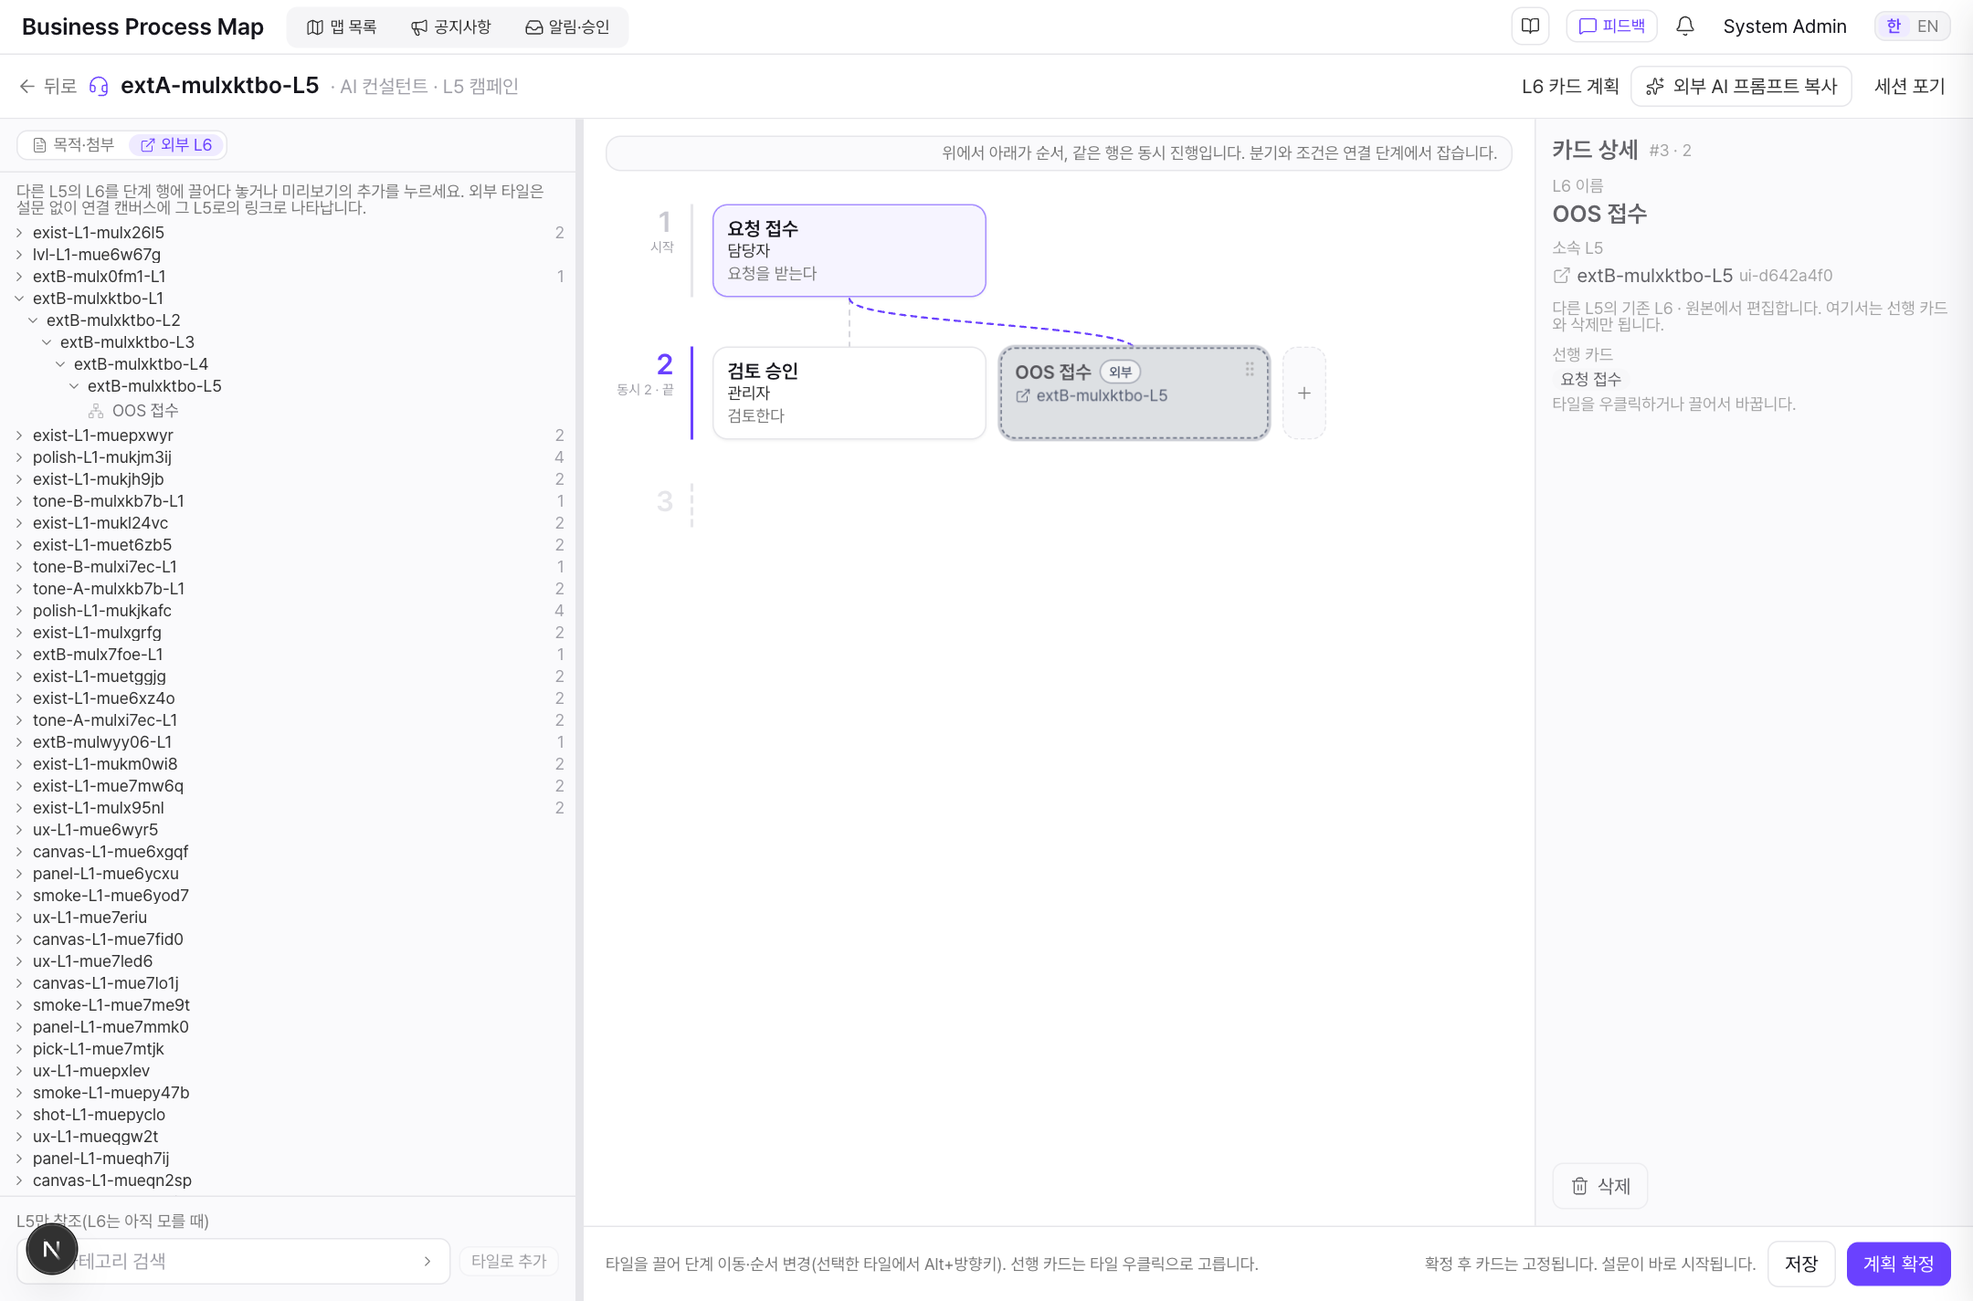
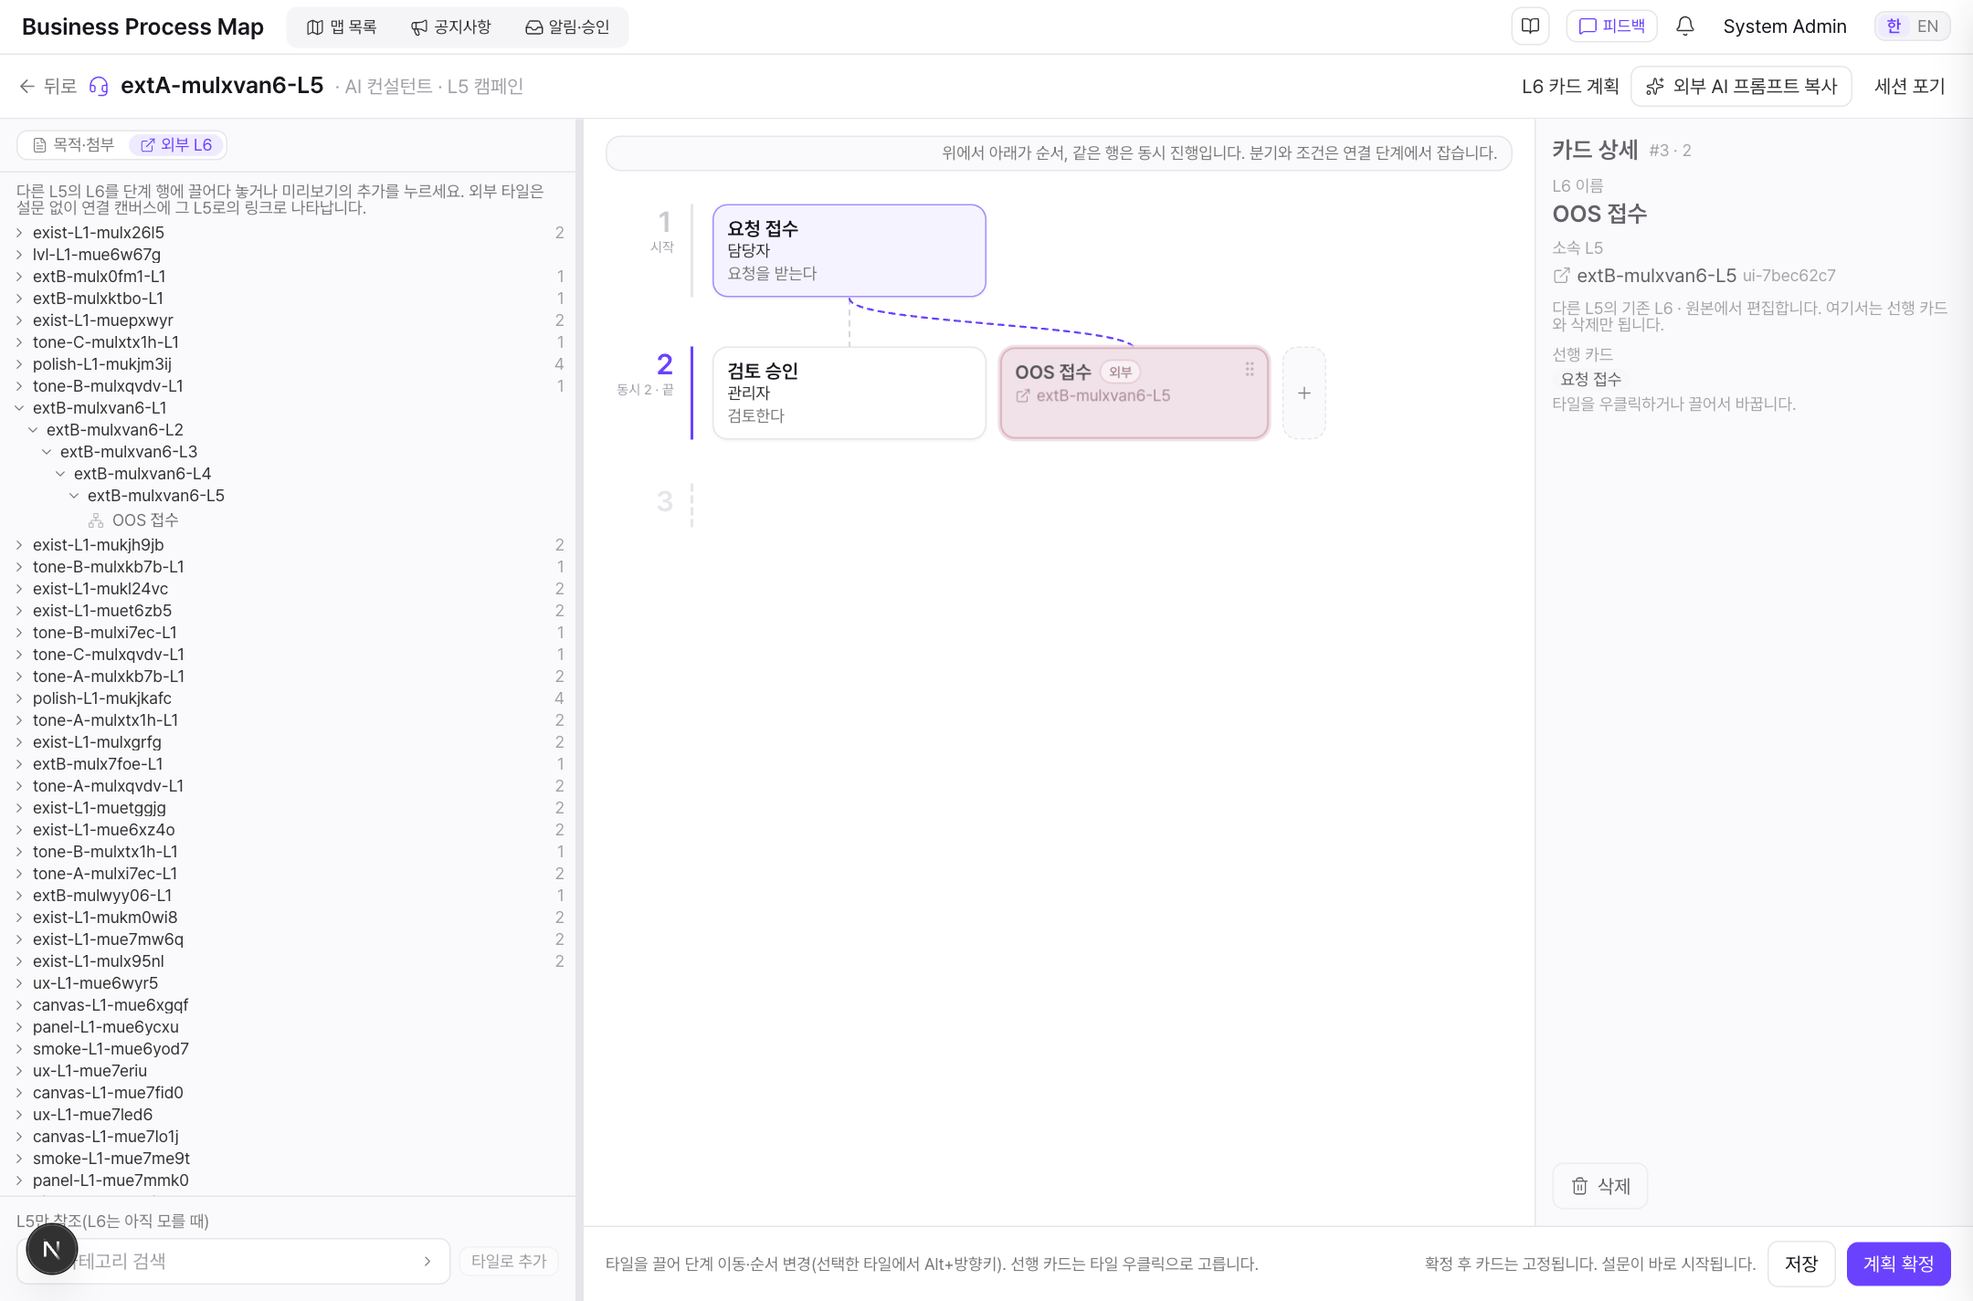
style(fw-consult): color external tiles per origin L5 with the canvas palette instead of a dashed navy — 외부 타일을 남색 점선 대신 소속 L5별 캔버스 팔레트 색으로
The slate dashed tile read as disabled. External tiles now take a pastel node look keyed by the origin L5 code (FNV-1a over the 8-tone COLOR_PRESETS), shared by the tile, its chip and the relations-canvas node, so two different L5s get two different colors and the selected/linked states only deepen the same hue.

Claude-Session: https://claude.ai/code/session_01NtYUxNw4KQ3Z1z3Bqrv8Dn

diff --git a/frontend/src/components/framework-interview/plan-editor.tsx b/frontend/src/components/framework-interview/plan-editor.tsx
@@ -13,7 +13,7 @@
 // 외부 참조 타일(2026-09-29): 다른 L5의 L6(체계 피커에서 드래그/피크 추가) 또는 L5만 아는 플레이스홀더. 점선 타일에 소속 L5 배지,
 // 설문·드로잉 없이 선행 관계와 연결 캔버스에만 참여한다. 추가 경로는 page가 넘기는 addExternalRef(피크·L5 지정)와 이 목록으로의 드롭.
 
-import { useEffect, useLayoutEffect, useRef, useState } from "react";
+import { type CSSProperties, useEffect, useLayoutEffect, useRef, useState } from "react";
 import { ExternalLink, GripVertical, Link2, Loader2, Plus, Trash2, Undo2 } from "lucide-react";
 
 import { getCategoryChain, getDirectory, type CategoryNode, type FwCardMode, type FwInterviewSession, type FwPlanCard } from "@/lib/api";
@@ -27,6 +27,7 @@ import {
 import { useFlipOrder } from "@/lib/use-flip-order";
 import { ContextMenu, type ContextMenuItem } from "@/components/context-menu";
 import { CardModeChip } from "@/components/framework-interview/card-mode-chip";
+import { getExternalL5ColorByCode } from "@/lib/canvas";
 import { SearchSelect } from "@/components/search-select";
 
 const FIELD = "w-full rounded-sm border border-hairline bg-surface px-2 py-1 text-caption text-ink outline-none focus:border-accent";
@@ -44,16 +45,13 @@ const TILE_LINKED = "border-accent/40 bg-accent-tint/40";
 const TILE_KEPT = "border-dashed border-hairline bg-surface-alt/60 opacity-70";
 // 삭제 예정 타일 — 붉은 테두리·옅은 붉은 바탕, 제목 취소선. 복구 버튼이 그립 자리에 온다
 const TILE_REMOVED = "border-error/60 bg-error/5";
-// 외부 참조 타일 — 업무 체계(L5 하늘) 남색 톤의 점선 타일. 기존 유지(회색 점선)·일반(흰색)과 한눈에 갈린다(사용자 요청 2026-09-29)
-const EXTERNAL_TONE = "var(--color-canvas-l5-sky)";
-// 선택·호버 무리 상태에서도 남색을 유지한다 — 액센트 틴트로 바뀌면 일반 타일과 구분이 사라진다(사용자 지적 2026-09-29)
+// 외부 참조 타일 — 소속 L5별 색(연계 캔버스 외부 L6 팔레트 `getExternalL5ColorByCode`)의 파스텔 노드 룩. 점선·회색은 비활성처럼
+// 읽혀 폐기(사용자 피드백 2026-09-29). 색은 타일 `--ext-tone`로 넣고, 선택·호버 무리 상태에서도 같은 색 안에서만 진해진다
 const TILE_EXTERNAL =
-  "border-dashed border-[color-mix(in_srgb,var(--color-canvas-l5-sky)_55%,white)] bg-[color-mix(in_srgb,var(--color-canvas-l5-sky)_8%,white)] " +
-  "hover:bg-[color-mix(in_srgb,var(--color-canvas-l5-sky)_14%,white)]";
-const TILE_EXTERNAL_LINKED =
-  "border-dashed border-[color-mix(in_srgb,var(--color-canvas-l5-sky)_75%,white)] bg-[color-mix(in_srgb,var(--color-canvas-l5-sky)_14%,white)]";
+  "border-[color-mix(in_srgb,var(--ext-tone)_70%,white)] bg-[color-mix(in_srgb,var(--ext-tone)_16%,white)] hover:bg-[color-mix(in_srgb,var(--ext-tone)_24%,white)]";
+const TILE_EXTERNAL_LINKED = "border-[var(--ext-tone)] bg-[color-mix(in_srgb,var(--ext-tone)_24%,white)]";
 const TILE_EXTERNAL_SELECTED =
-  "border-dashed border-[var(--color-canvas-l5-sky)] bg-[color-mix(in_srgb,var(--color-canvas-l5-sky)_20%,white)] ring-2 ring-[color-mix(in_srgb,var(--color-canvas-l5-sky)_30%,white)]";
+  "border-[var(--ext-tone)] bg-[color-mix(in_srgb,var(--ext-tone)_32%,white)] ring-2 ring-[color-mix(in_srgb,var(--ext-tone)_35%,white)]";
 const LIBRARY_MIME = "application/bpm-process";  // 체계 피커(framework-tree-picker) 행 드래그 규약
 const REMOVED_CHIP = "shrink-0 rounded-full bg-error/10 px-1.5 py-0.5 text-[10px] font-semibold leading-3 text-error";
 // 추가 버튼은 그 행에 마우스가 올라왔을 때만 페이드인 — 빈 자리가 늘 점선으로 채워져 있지 않게(사용자 요청 2026-09-24)
@@ -504,6 +502,7 @@ export function PlanEditor({ session, busy, proposing = false, addExternalRef, o
     const isExisting = Boolean(card.existing_code);
     const isKept = isExisting && (card.mode ?? "keep") === "keep";
     const isExternal = card.mode === "external";
+    const externalTone = isExternal && card.external ? getExternalL5ColorByCode(card.external.l5_code) : undefined;
     const isRemoved = removedIds.has(card.clientId);
     const isSelected = selected?.clientId === card.clientId;
     const isDragging = drag?.clientId === card.clientId;
@@ -533,6 +532,7 @@ export function PlanEditor({ session, busy, proposing = false, addExternalRef, o
           data-external={isExternal || undefined}
           data-removed={isRemoved || undefined}
           className={`${TILE} ${cursor} ${look}`}
+          style={externalTone ? ({ "--ext-tone": externalTone } as CSSProperties) : undefined}
           onPointerDown={(event) => handleTilePointerDown(event, card.clientId)}
           onPointerEnter={() => { if (!drag) setHoverId(card.clientId); }}
           onPointerLeave={() => setHoverId((cur) => (cur === card.clientId ? null : cur))}
@@ -568,12 +568,12 @@ export function PlanEditor({ session, busy, proposing = false, addExternalRef, o
             {isExisting && !isRemoved && (
               <CardModeChip mode={isKept ? "keep" : "revise"} dataId={`fw-consult-plan-existing-${flatIndex}`} title={card.existing_code ?? undefined} />
             )}
-            {isExternal && !isRemoved && <CardModeChip mode="external" dataId={`fw-consult-plan-external-${flatIndex}`} />}
+            {isExternal && !isRemoved && <CardModeChip mode="external" color={externalTone} dataId={`fw-consult-plan-external-${flatIndex}`} />}
           </span>
           {/* 보조 2줄은 비어도 자리를 지킨다(높이 고정). 외부 타일은 첫 줄이 소속 L5 배지 */}
           {isExternal && card.external ? (
             // 소속 L5 배지 — 연계 캔버스의 외부 L6 출처 배지와 같은 정보(이름). L6 미지정이면 이름 자체가 그것을 말한다
-            <span className="flex min-h-4 min-w-0 items-center gap-1 text-fine" style={{ color: EXTERNAL_TONE }} data-id={`fw-consult-plan-external-origin-${flatIndex}`}>
+            <span className="flex min-h-4 min-w-0 items-center gap-1 text-fine" style={{ color: `color-mix(in srgb, ${externalTone} 72%, black)` }} data-id={`fw-consult-plan-external-origin-${flatIndex}`}>
               <ExternalLink size={12} strokeWidth={1.5} className="shrink-0" />
               <span className="min-w-0 truncate">{card.external.l5_label || card.external.l5_code}</span>
             </span>

diff --git a/frontend/src/components/framework-interview/relations-canvas.tsx b/frontend/src/components/framework-interview/relations-canvas.tsx
@@ -29,7 +29,7 @@ import { ConfirmDialog } from "@/components/confirm-dialog";
 import { ContextMenu, type ContextMenuItem } from "@/components/context-menu";
 import { ProcessNode } from "@/components/process-node";
 import type { FwCanvas, FwPlanCard } from "@/lib/api";
-import type { AppNode } from "@/lib/canvas";
+import { type AppNode, getExternalL5ColorByCode } from "@/lib/canvas";
 import { copyText } from "@/lib/clipboard";
 import { buildFlowHandleStyle } from "@/lib/flow-handle-style";
 import { autoLayoutFlow } from "@/lib/flow-layout";
@@ -89,7 +89,9 @@ function buildFlow(canvas: FwCanvas, taskNames: Map<string, string>, taskCards: 
           ...(name ? { label: name } : {}),
           ...(card ? { description: card.summary, spAssigneeRole: card.owner_role || null, spDepartment: card.department || null } : {}),
           // 외부 참조 카드는 연계 캔버스의 외부 L6 룩(출처 L5 배지·외부 스타일)으로 — 등록 후 플레이스홀더/링크가 되는 자리(2026-09-29)
-          ...(card?.mode === "external" && card.external ? { spOriginPath: card.external.l5_label || card.external.l5_code } : {}),
+          ...(card?.mode === "external" && card.external
+            ? { spOriginPath: card.external.l5_label || card.external.l5_code, color: getExternalL5ColorByCode(card.external.l5_code) }
+            : {}),
           sideHandles: true,
           hideLinkBanner: true,
         },

diff --git a/frontend/src/components/framework-interview/card-mode-chip.tsx b/frontend/src/components/framework-interview/card-mode-chip.tsx
@@ -19,18 +19,23 @@ const SIZE = {
   row: "px-1.5 py-[2px] text-[11px] leading-none",
 } as const;
 
-export function CardModeChip({ mode, size = "tile", dataId, title }: {
+export function CardModeChip({ mode, size = "tile", dataId, title, color }: {
   mode: CardModeChipMode;
   size?: keyof typeof SIZE;
   dataId?: string;
   title?: string;
+  // 외부 칩의 소속 L5 색(캔버스 팔레트) — 주면 남색 대신 그 색으로 물든다
+  color?: string;
 }) {
   const { t } = useI18n();
   const label = mode === "external"
     ? t("fwConsult.externalChip")
     : `${t("fwConsult.existing")} · ${t(mode === "keep" ? "fwConsult.keep" : "fwConsult.revise")}`;
+  const tint = color
+    ? { borderColor: `color-mix(in srgb, ${color} 60%, white)`, background: `color-mix(in srgb, ${color} 16%, white)`, color: `color-mix(in srgb, ${color} 72%, black)` }
+    : undefined;
   return (
-    <span className={`shrink-0 rounded-full border font-semibold ${SIZE[size]} ${TONE[mode]}`} data-id={dataId} data-mode={mode} title={title}>
+    <span className={`shrink-0 rounded-full border font-semibold ${SIZE[size]} ${TONE[mode]}`} style={tint} data-id={dataId} data-mode={mode} title={title}>
       {label}
     </span>
   );

diff --git a/frontend/src/lib/canvas.ts b/frontend/src/lib/canvas.ts
@@ -33,6 +33,14 @@ export function getExternalL5Color(categoryId: number): string {
   return COLOR_PRESETS[1 + (categoryId % (COLOR_PRESETS.length - 1))];
 }
 
+// 같은 팔레트를 L5 코드로 고른다 — 카테고리 id가 없는 표면(AI 캠페인 외부 참조 카드)용. 같은 코드=같은 색.
+// FNV-1a — 곱셈 31 해시는 mod 8이 자릿수 교대합으로 퇴화해 비슷한 코드끼리 잘 겹친다
+export function getExternalL5ColorByCode(code: string): string {
+  let hash = 0x811c9dc5;
+  for (let i = 0; i < code.length; i++) hash = Math.imul(hash ^ code.charCodeAt(i), 0x01000193) >>> 0;
+  return COLOR_PRESETS[1 + (hash % (COLOR_PRESETS.length - 1))];
+}
+
 export type NodeData = {
   label: string;
   description: string;

diff --git a/PROGRESS.md b/PROGRESS.md
@@ -18,7 +18,7 @@
 - **L6 Start 배선 픽스**: AI가 되돌아가는 연결(뒤 활동→앞 활동)을 seq/branch로 적으면 첫 활동에 in-edge가 생겨 Start가 안 붙던 문제. 어댑터 `_build_flow_edges`가 seq 역행 엣지를 loop로 재분류(판단 승격은 원래 kind로 먼저)하고, 엔진 `build_graph_rows`·FE `interview-preview`는 진입/출구 후보가 없으면 첫/끝 seq에 Start/End를 붙인다. 행 작성 프롬프트에 "되돌아가는 연결은 kind=loop" 규칙 추가. 관리 패널 L4/L5 AI 타일은 전폭 대신 내용 폭.
 - **미리보기 순환 표현·연결 단계 계획 정합**: 공용 `ScopePreview` 엣지에 화살표를 달고, 역행 엣지(타겟이 왼쪽)는 두 노드 위로 도는 직각 점선 경로(`buildPreviewEdgePath`)로 그린다(중심 직선은 앞 노드를 가로질러 순환이 안 보였다). L5 미리보기도 Start/End 폴백 동일. 연결 제안은 정규화 뒤 `align_relations_to_plan`으로 계획의 선행 쌍을 엣지로 보강하고 진입점을 첫 단계 카드로, 뒤 단계→앞 단계 엣지는 loop로 맞춘다(피드백 재제안은 제외). 가짜 AI 기본 행에 3→1 loop를 넣어 스모크가 순환 경로를 밟는다.
 - **L6 드로잉 빈 응답 실패·플레이스홀더 재시도**: 실사용의 "AI returned invalid response: invalid JSON: Expecting value (line 1)"는 사고(thinking)가 `AI_MAX_TOKENS`를 다 써 content가 빈 문자열로 온 경우였다. `ask_schema`는 빈 응답을 형식 오류와 구분해(`EMPTY_REPLY_MESSAGE`) 되먹이지 않고 같은 메시지로 사고를 끄고(`reasoning="none"`) 재시도하며, 행 드로잉은 처음부터 사고 없이 부른다(답을 옮겨 적는 작업이라 사고 기여가 작고 출력이 길다). 플레이스홀더로 건너뛴 카드는 등록 전까지 `retry`로 다시 그릴 수 있다(보드 행·패널의 "AI로 다시 그리기", 답이 있으면 드로잉부터). 설문 답변 단계(ready)에서도 패널 상단 "플레이스홀더(임시)로 생성"으로 설문·드로잉을 건너뛸 수 있다(확인 다이얼로그, 답은 비움, `skip`이 ready 허용).
-- **외부 참조 타일(2026-09-29)**: 계획 단계 좌측 열을 [목적·첨부 | 외부 L6] 세그먼트로 스왑. 외부 L6는 연계 캔버스의 "Framework L6" 패널(`FrameworkTreePicker`) 재사용(이 L5의 기존 L6·이미 추가한 맵은 링크됨으로 차단, 피크 "타일로 추가"·행 드래그→단계 행 드롭), 아래에 "L5만 참조" 계단식 피커. 카드 계약 `mode="external"` + `external{ref_id,l5_code,l5_label,l6,map_id}`(`FrameworkExternalRefIn`, 상호 필수 validator). 잠금 시 태스크 없이 `task_id=ref_id`, `_known_task_names`가 캔버스 전개·relations 정규화·검증·확정의 단일 소스, 진입점은 내부 카드 강제(`align_relations_to_plan`·`_has_known_task_ids`), 조립 시 `externalTasks`(`assemble.external_tasks_of`)로 0.5 어댑터에 넘긴다(이름 일치 자동 연결/플레이스홀더). 타일은 점선+외부 칩+소속 L5 배지, 인스펙터는 출처만(선행·삭제만 가능), 보드는 "외부 참조 n건" 요약, 연결 캔버스 노드는 `spOriginPath`로 외부 룩. 체계 피커의 서브트리 맵 수는 펼친 행에서 숨겨 가장 깊은 접힌 행에만(사용자 요청). 스모크 `pw-fw-consult-external.mjs`(14). 후속: 계획 타일 높이 68px 고정(보조 2줄은 비어도 자리 유지), 외부 타일은 L5 하늘 남색(`--color-canvas-l5-sky` color-mix) 점선 톤으로 기존 유지(회색 점선)와 구분. 상태 칩은 공용 `CardModeChip`(`card-mode-chip.tsx`) 한 곳에서 톤을 정한다: 기존·유지=중립 회색, 기존·정정=변경 앰버(`--color-changed` color-mix), 외부=L5 하늘 남색. 계획 타일과 보드 행이 같은 칩을 쓴다(사용자 요청 2026-09-29, 톤은 토큰만). 외부 타일은 선택·선행 무리 상태에서도 액센트 틴트로 넘어가지 않고 남색 안에서만 진해진다(`TILE_EXTERNAL_LINKED`/`_SELECTED`) — 이전엔 선행 카드를 고르면 일반 타일과 같은 보라 틴트가 돼 구분이 사라졌다(사용자 지적).
+- **외부 참조 타일(2026-09-29)**: 계획 단계 좌측 열을 [목적·첨부 | 외부 L6] 세그먼트로 스왑. 외부 L6는 연계 캔버스의 "Framework L6" 패널(`FrameworkTreePicker`) 재사용(이 L5의 기존 L6·이미 추가한 맵은 링크됨으로 차단, 피크 "타일로 추가"·행 드래그→단계 행 드롭), 아래에 "L5만 참조" 계단식 피커. 카드 계약 `mode="external"` + `external{ref_id,l5_code,l5_label,l6,map_id}`(`FrameworkExternalRefIn`, 상호 필수 validator). 잠금 시 태스크 없이 `task_id=ref_id`, `_known_task_names`가 캔버스 전개·relations 정규화·검증·확정의 단일 소스, 진입점은 내부 카드 강제(`align_relations_to_plan`·`_has_known_task_ids`), 조립 시 `externalTasks`(`assemble.external_tasks_of`)로 0.5 어댑터에 넘긴다(이름 일치 자동 연결/플레이스홀더). 타일은 점선+외부 칩+소속 L5 배지, 인스펙터는 출처만(선행·삭제만 가능), 보드는 "외부 참조 n건" 요약, 연결 캔버스 노드는 `spOriginPath`로 외부 룩. 체계 피커의 서브트리 맵 수는 펼친 행에서 숨겨 가장 깊은 접힌 행에만(사용자 요청). 스모크 `pw-fw-consult-external.mjs`(14). 후속: 계획 타일 높이 68px 고정(보조 2줄은 비어도 자리 유지), 외부 타일은 L5 하늘 남색(`--color-canvas-l5-sky` color-mix) 점선 톤으로 기존 유지(회색 점선)와 구분. 상태 칩은 공용 `CardModeChip`(`card-mode-chip.tsx`) 한 곳에서 톤을 정한다: 기존·유지=중립 회색, 기존·정정=변경 앰버(`--color-changed` color-mix), 외부=L5 하늘 남색. 계획 타일과 보드 행이 같은 칩을 쓴다(사용자 요청 2026-09-29, 톤은 토큰만). 외부 타일은 소속 L5별 파스텔 색 — 남색 점선은 비활성처럼 읽혀 폐기(사용자 피드백). 연계 캔버스 외부 L6 팔레트(`COLOR_PRESETS` 8톤)를 L5 코드 FNV-1a 해시로 고르는 `getExternalL5ColorByCode`(`lib/canvas.ts`, 곱셈 31 해시는 mod 8이 교대합으로 퇴화해 겹침) 한 곳을 타일 `--ext-tone`·외부 칩 `color`·연결 캔버스 노드 `color`(`spOriginPath` 예외 경로)가 같이 본다. 선택·선행 무리 상태에서도 같은 색 안에서만 진해진다(`TILE_EXTERNAL_LINKED`/`_SELECTED`).
 - **관리 트리 자동 드릴인**: 자식이 하나뿐인 노드를 펼치면(루트가 하나뿐일 때 포함) 그 사슬이 갈래가 나올 때까지 static 모션으로 이어 열린다(`drillSingleChain`, 스모크 `pw-fw-tree-autodrill.mjs`).
 - 검증: vitest 1092·pytest 1596·tsc/lint/ruff clean, 스모크 pw-fw-consult(12)·ux(28)·canvas(34)·existing(10)·task-panel(11)·pick-card(4)·new-l5(6)·level-actions(10) 전부 통과. 확인용 캡처 스크립트(polish-shots·plan-shot·design-audit)는 사용 후 정리.
 ## 2026-09-28 — PI팀 회의 자료: 컨설팅 범위 맵의 시스템 오너 협의 (docs/pi-meeting-prep → dev)
